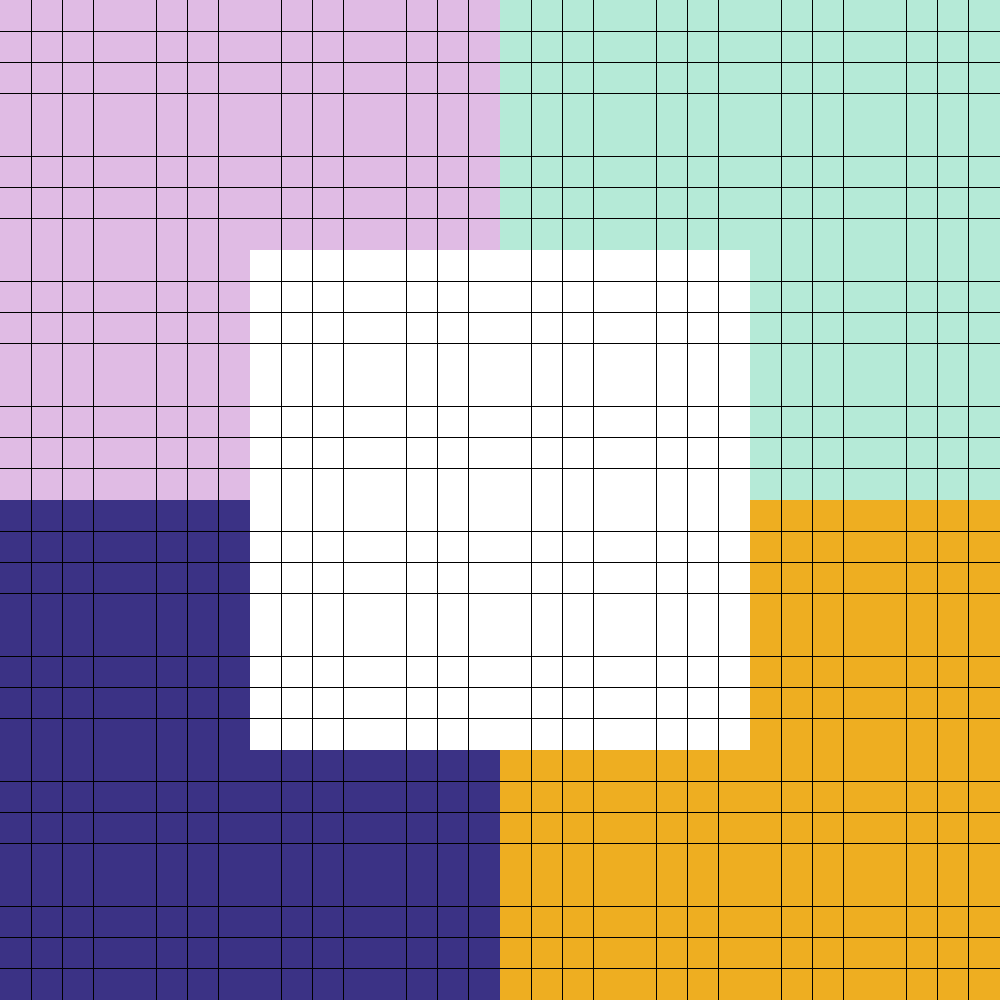
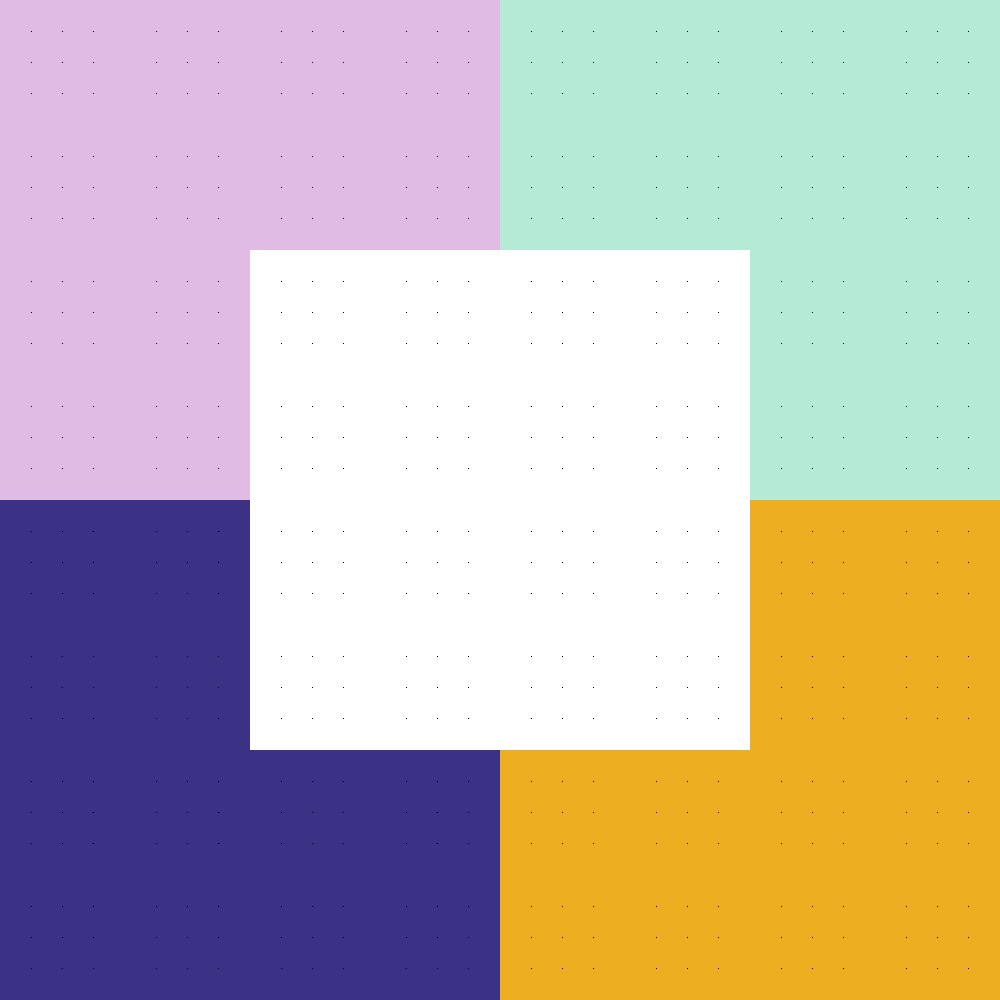
towards 0.0.25 - further interesting (art) effect from incomplete algorithm

diff --git a/ta-math/transform.js b/ta-math/transform.js
@@ -1056,11 +1056,11 @@ resize_ta_colorspace_24bipp$subpixel = (ta_source, source_colorspace, dest_size,
                 if (t_prop === 1) {
                     copy_px_24bipp(ta_source, byi_source, ta_dest, byi_write);
                 } else {
-                    
+                    read_1x2_weight_write_24bipp(ta_source, byi_source, source_bypr, ta_dest, byi_write, t_prop, 1 - t_prop);
                 }
             } else {
                 if (t_prop === 1) {
-
+                    read_2x1_weight_write_24bipp(ta_source, byi_source, ta_dest, byi_write, l_prop, 1 - l_prop);
                 } else {
                     
                 }
